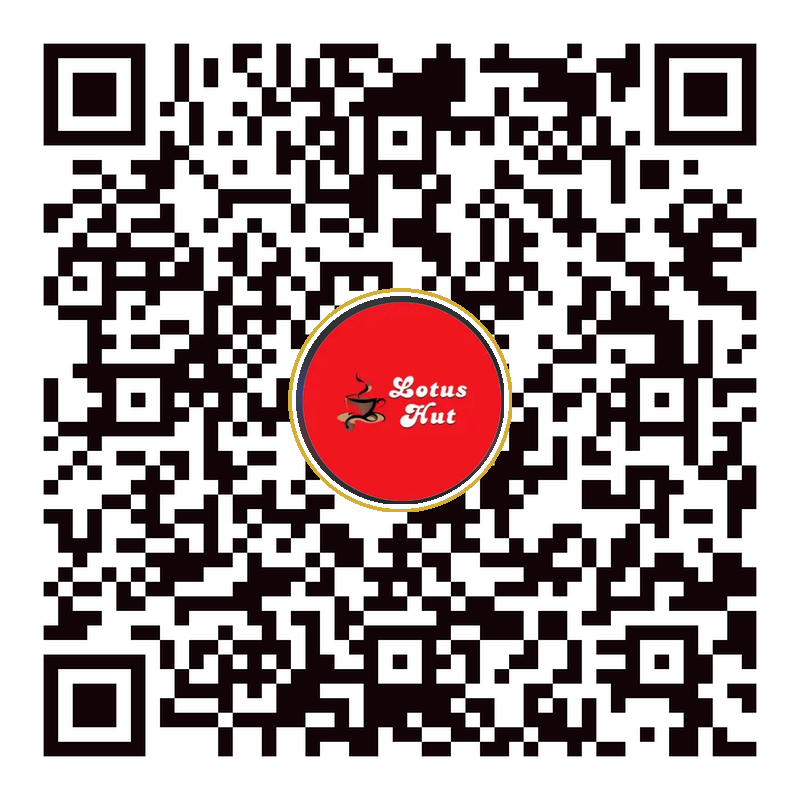
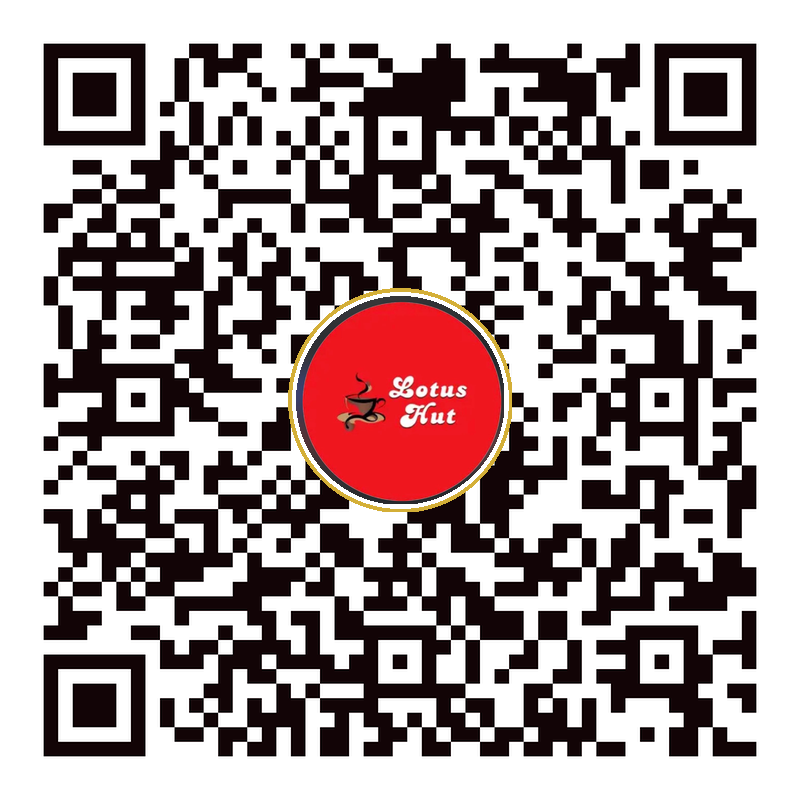
Update official UPI ID to 9111789220@ybl to fix Invalid UPI ID error

diff --git a/index.html b/index.html
@@ -1954,7 +1954,7 @@
             <div style="background: rgba(212, 175, 55, 0.12); border: 1.5px solid var(--gold-primary); border-radius: 14px; padding: 12px; margin-bottom: 14px;">
                 <div style="font-size: 11px; color: #d6b8be;">Total Amount to Pay:</div>
                 <div style="font-size: 26px; font-weight: 900; color: var(--gold-light);" id="radarAmountDisplay">₹0</div>
-                <div style="font-size: 11px; color: #55ef88; font-weight: 700; margin-top: 2px;">Payee: Lotus Hut (9111789220@upi)</div>
+                <div style="font-size: 11px; color: #55ef88; font-weight: 700; margin-top: 2px;">Payee: Lotus Hut (9111789220@ybl)</div>
             </div>
 
             <!-- Live Processing Radar -->
@@ -2000,7 +2000,7 @@
             <div style="background: rgba(212, 175, 55, 0.12); border: 1.5px solid var(--gold-primary); border-radius: 14px; padding: 12px; margin-bottom: 14px;">
                 <div style="font-size: 11px; color: #d6b8be;">Total Amount to Pay:</div>
                 <div style="font-size: 26px; font-weight: 900; color: var(--gold-light);" id="upiModalAmountDisplay">₹270</div>
-                <div style="font-size: 11px; color: #55ef88; font-weight: 700; margin-top: 2px;">Payee: Lotus Hut (9111789220@upi)</div>
+                <div style="font-size: 11px; color: #55ef88; font-weight: 700; margin-top: 2px;">Payee: Lotus Hut (9111789220@ybl)</div>
             </div>
 
             <!-- Dynamic QR Code Container -->
@@ -2541,7 +2541,7 @@
             var custSpot = (document.getElementById('custSpotInput') ? document.getElementById('custSpotInput').value.trim() : '') || 'Driveway / Parking';
             var custNote = (document.getElementById('custNoteInput') ? document.getElementById('custNoteInput').value.trim() : '');
 
-            var upiId = (window.RESTAURANT_CONFIG && window.RESTAURANT_CONFIG.upiId) || "9111789220@upi";
+            var upiId = (window.RESTAURANT_CONFIG && window.RESTAURANT_CONFIG.upiId) || "9111789220@ybl";
             var payeeName = (window.RESTAURANT_CONFIG && window.RESTAURANT_CONFIG.upiPayeeName) || "Lotus Hut The Drive In Cafe";
             var note = `Order #${orderId} ${custVehicle.toUpperCase()}`;
             var baseUpiQuery = `pa=${encodeURIComponent(upiId)}&pn=${encodeURIComponent(payeeName)}&am=${stats.total.toFixed(2)}&cu=INR&tn=${encodeURIComponent(note)}`;

diff --git a/config.js b/config.js
@@ -21,7 +21,7 @@ window.RESTAURANT_CONFIG = {
     
     // 3. Direct UPI Payment Details (9111789220)
     upiNumber: "9111789220",
-    upiId: "9111789220@upi",
+    upiId: "9111789220@ybl",
     upiPayeeName: "Lotus Hut The Drive In Cafe",
     
     // 4. Hosted Landing Page & Live URL

diff --git a/generate_qr.py b/generate_qr.py
@@ -206,7 +206,7 @@ def build_luxury_standee(qr_menu_img, width=1200, height=1800, output_path="tabl
     p1_b = draw.textbbox((0, 0), pay_text1, font=get_font(21, bold=True))
     draw.text(((width - (p1_b[2] - p1_b[0])) // 2, pay_top + 18), pay_text1, fill="#fbe69b", font=get_font(21, bold=True))
 
-    pay_text2 = "UPI ID: 9111789220@upi  •  Helpline: 9111789220"
+    pay_text2 = "UPI ID: 9111789220@ybl  •  Helpline: 9111789220"
     p2_b = draw.textbbox((0, 0), pay_text2, font=get_font(18, bold=False))
     draw.text(((width - (p2_b[2] - p2_b[0])) // 2, pay_top + 55), pay_text2, fill="#ffffff", font=get_font(18, bold=False))
 
@@ -239,7 +239,7 @@ def build_luxury_standee(qr_menu_img, width=1200, height=1800, output_path="tabl
 
 if __name__ == "__main__":
     menu_url = "https://hospitalityqr.github.io/shree-driving/?v=2"
-    upi_url = "upi://pay?pa=9111789220@upi&pn=Lotus%20Hut%20The%20Drive%20In%20Cafe&cu=INR"
+    upi_url = "upi://pay?pa=9111789220@ybl&pn=Lotus%20Hut%20The%20Drive%20In%20Cafe&cu=INR"
 
     print("Generating Menu QR...")
     qr_menu = generate_styled_qr(menu_url, logo_path="logo.png", size=800)

diff --git a/app.py b/app.py
@@ -36,7 +36,7 @@ RAZORPAY_KEY_SECRET = os.getenv("RAZORPAY_KEY_SECRET", "rzp_test_secret_lotushut
 CURRENCY = os.getenv("CURRENCY", "INR")
 RESTAURANT_NAME = os.getenv("RESTAURANT_NAME", "Lotus Hut — The Drive In Cafe")
 STORE_PHONE = os.getenv("STORE_PHONE", "9111789220")
-STORE_UPI_ID = os.getenv("STORE_UPI_ID", "9111789220@upi")
+STORE_UPI_ID = os.getenv("STORE_UPI_ID", "9111789220@ybl")
 
 # 2. Try initializing Razorpay Client
 razorpay_client = None
